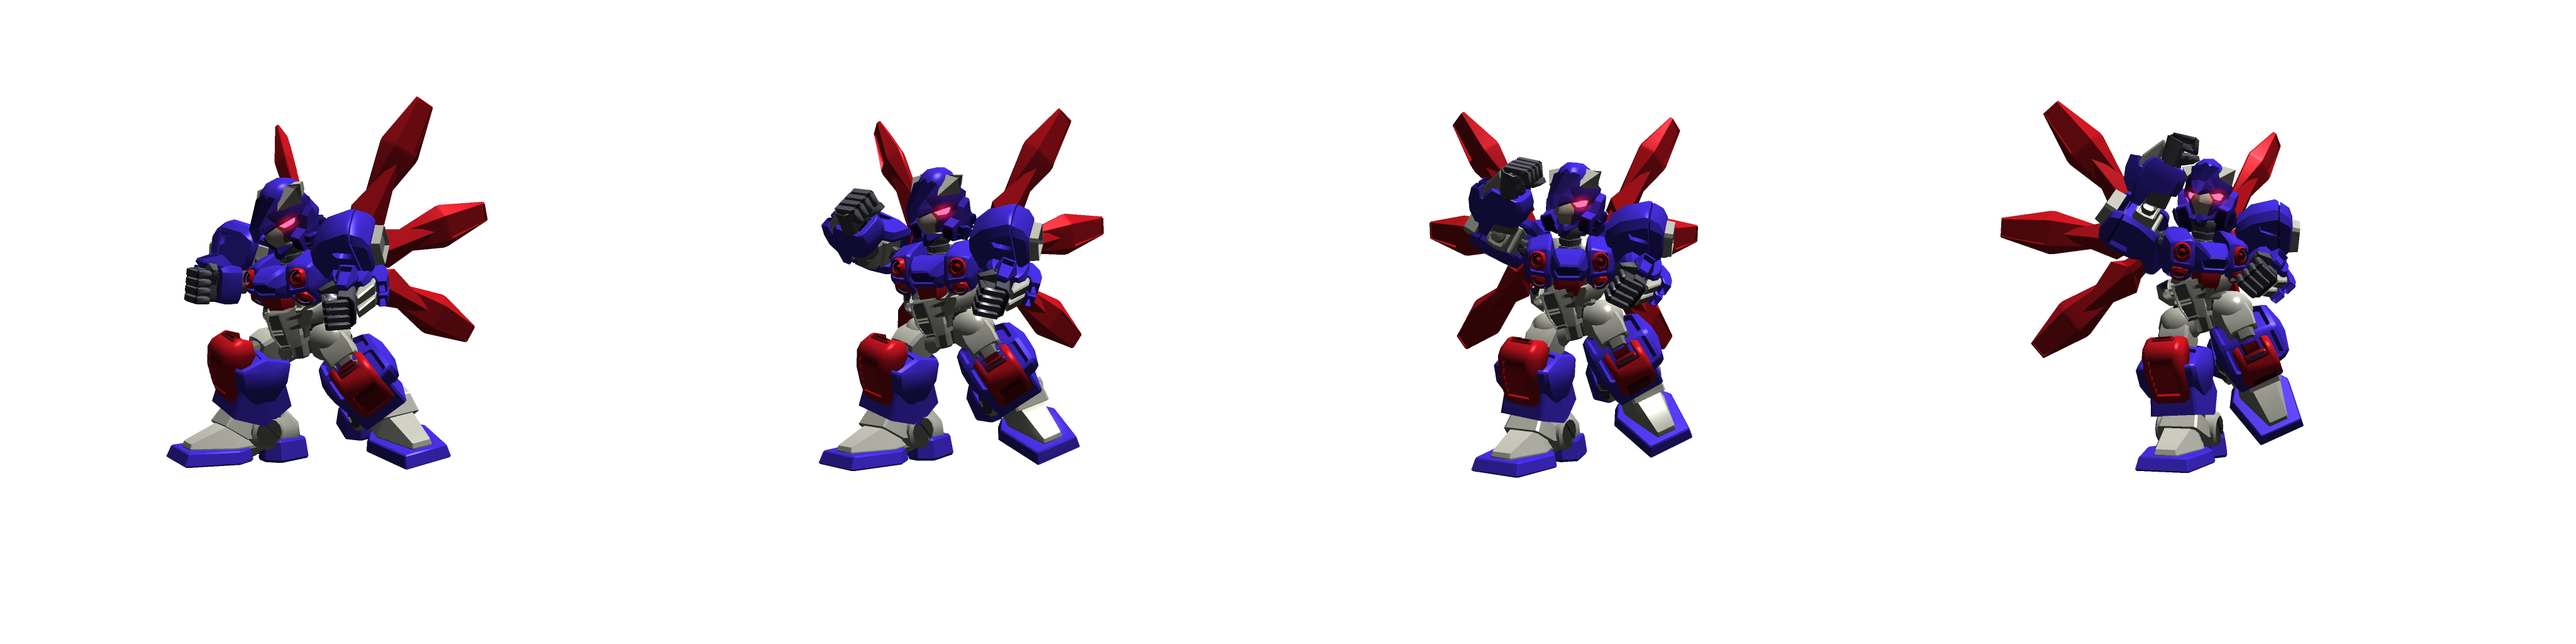
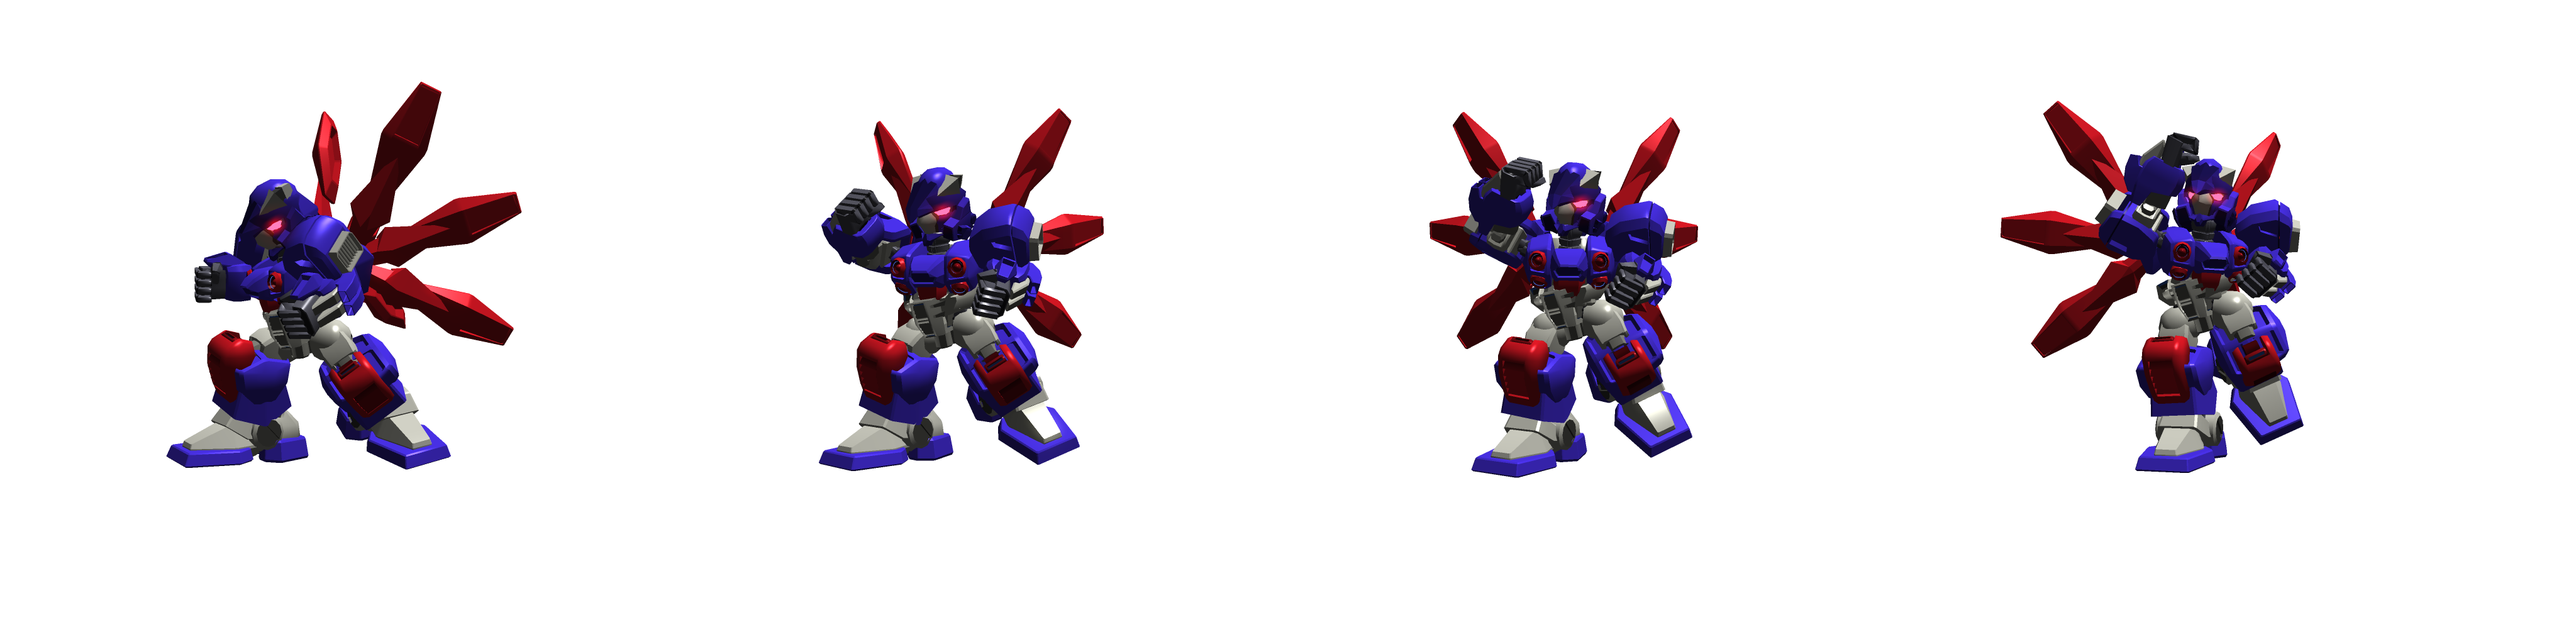
アッパーのひねりを大きくした

Changed region(s): [[0.0625, 0.125, 0.2188, 0.5312]]

diff --git a/src/js/game-object/armdozer/wing-dozer/animation/charge.js b/src/js/game-object/armdozer/wing-dozer/animation/charge.js
@@ -15,5 +15,5 @@ export function charge(model: WingDozerModel): Animate {
   return process(() => {
     model.animation.type = 'UPPER_CHARGE';
     model.animation.frame = 0;
-  }).chain(tween(model.animation, t => t.to({frame: 1}, 150)));
+  }).chain(tween(model.animation, t => t.to({frame: 1}, 200)));
 }
